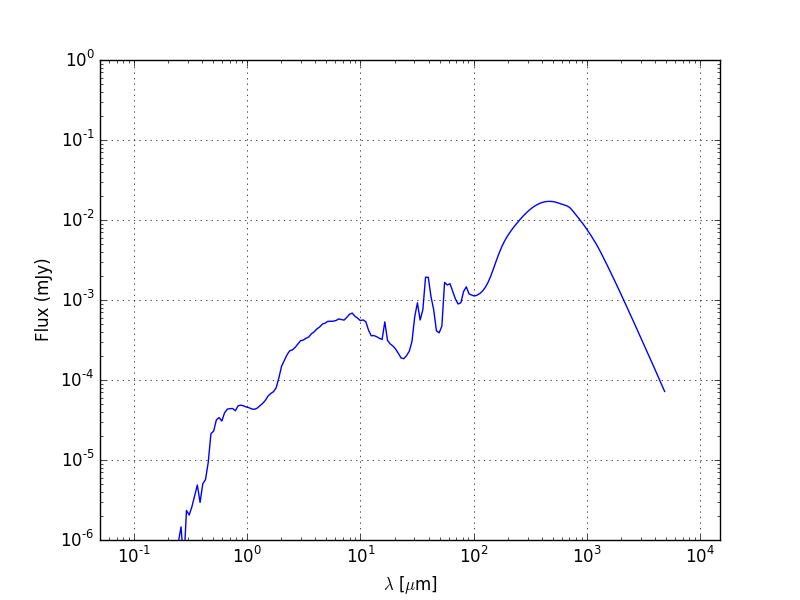
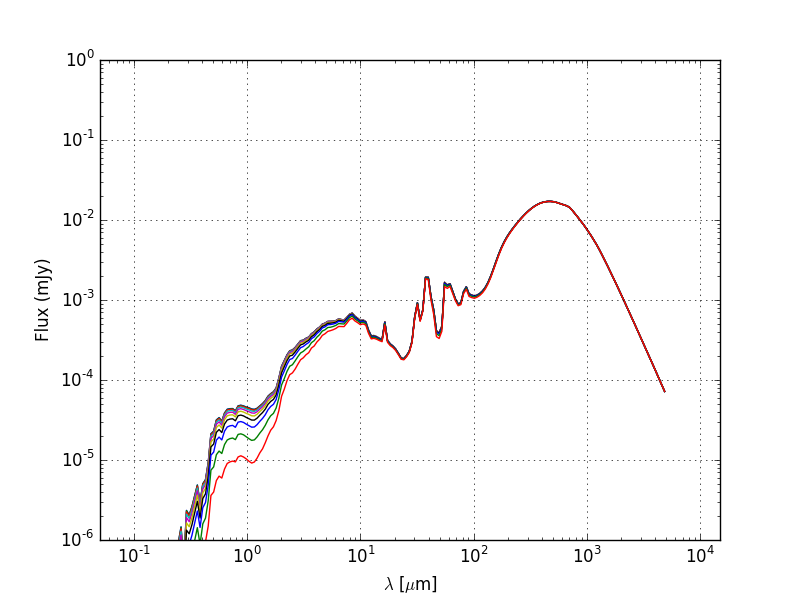
few changes all based on sed_plot convenience script

diff --git a/convenience/sed_plot.py b/convenience/sed_plot.py
@@ -8,12 +8,12 @@ from astropy import constants
 #========================================================
 #MODIFIABLE HEADER (make this a function later with argv)
 z = 4.
+run = '/Users/desika/Dropbox/powderday/examples/gadget/example.200.rtout'
 #========================================================
 
 
 
 
-run = '/Users/desika/Dropbox/powderday/examples/gadget/example.200.rtout'
 
 
 
@@ -40,8 +40,9 @@ flux /= nu
 flux = flux.to(u.mJy)
 
 
+for i in range(flux.shape[0]):
+    ax.loglog(wav,flux[i,:])
 
-ax.loglog(wav,flux[0,:])
 ax.set_xlabel(r'$\lambda$ [$\mu$m]')
 ax.set_ylabel('Flux (mJy)')
 ax.set_ylim([1e-6,1.])

diff --git a/docs/convenience.rst b/docs/convenience.rst
@@ -1,2 +1,16 @@
-Convenience Packages
+Convenience Scripts
 **********
+
+The convenience scripts tend to live (where else) in the convenience
+subdirectory of the `powderday
+<https://bitbucket.org/desika/powderday>`_ root directory.  There's a
+brief description of them here.
+
+:sed_plot:
+
+   Enter a redshift and rtout file name (in the editable header) and
+   it will plot out an SED for all viewing angles in Jy.  You'll want
+   to manually monkey with the range, etc.  This is mostly just serves
+   as an example.
+
+   
